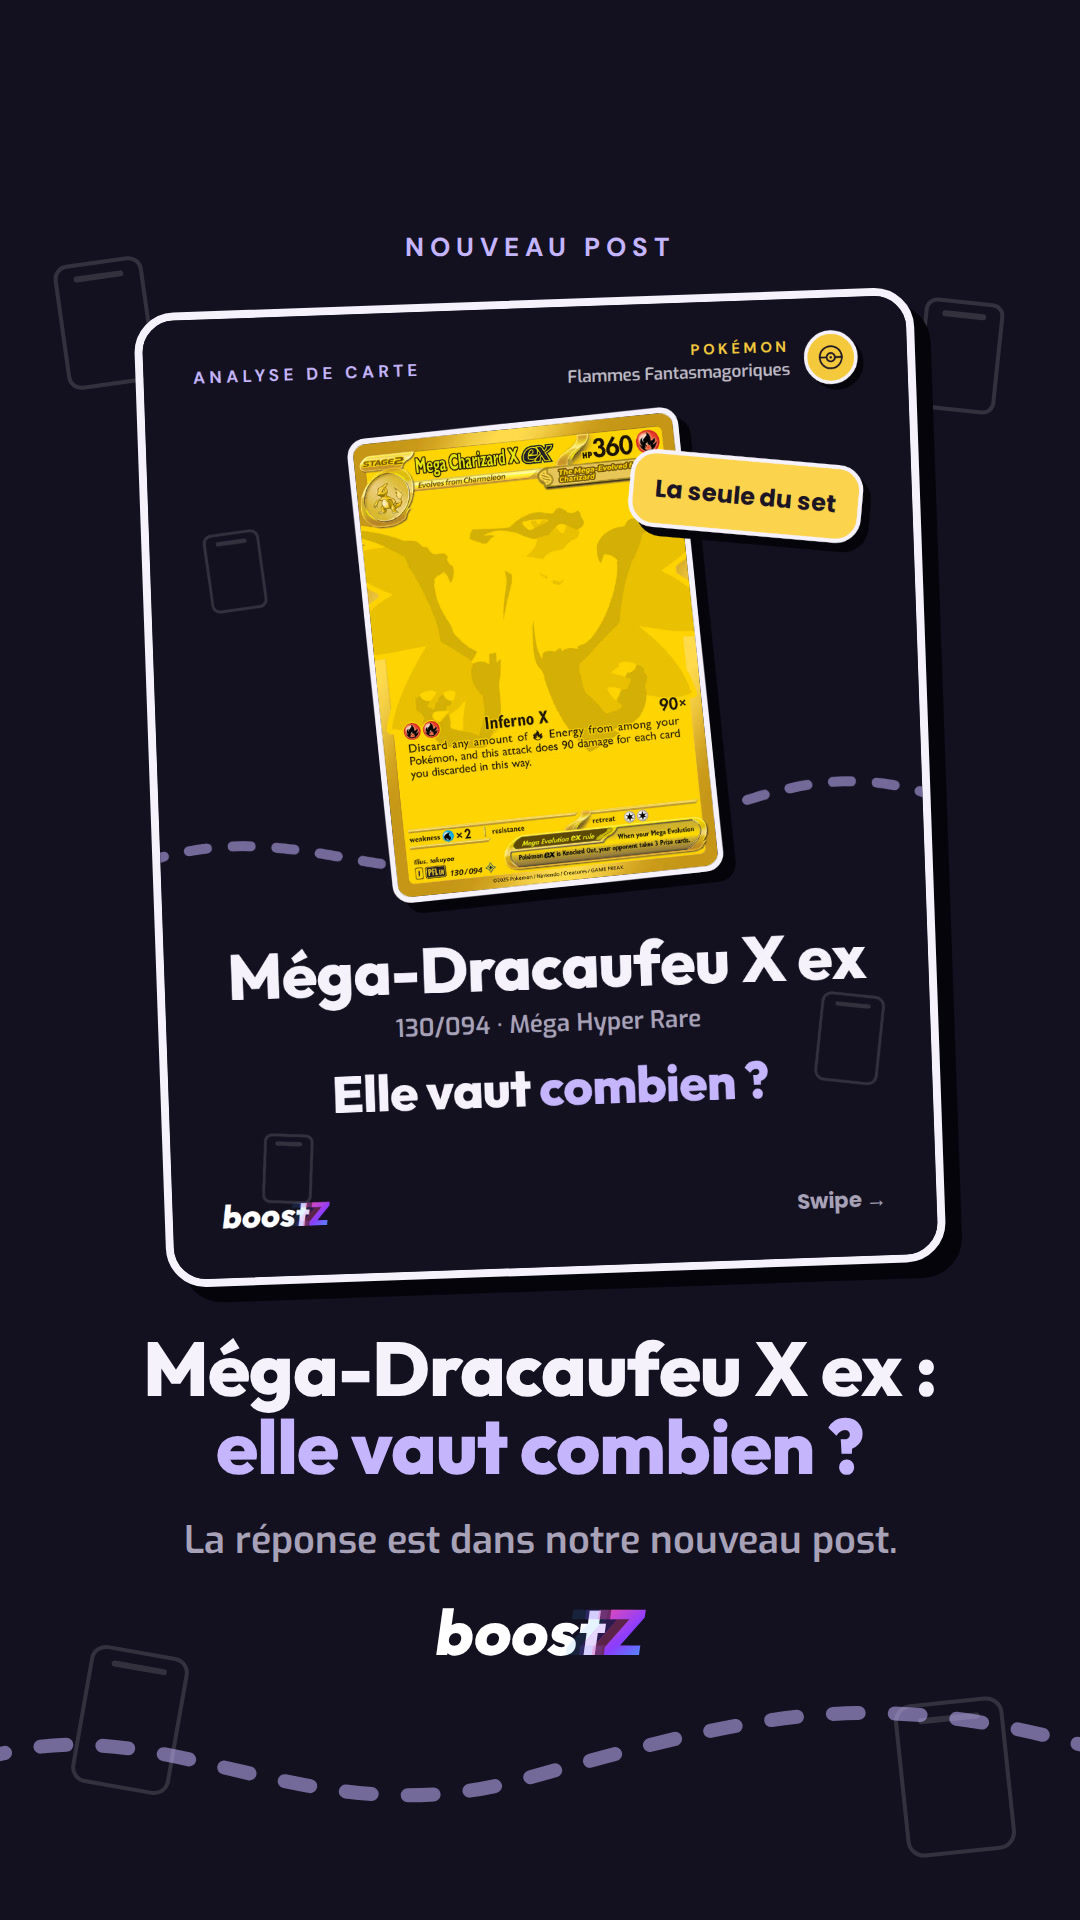
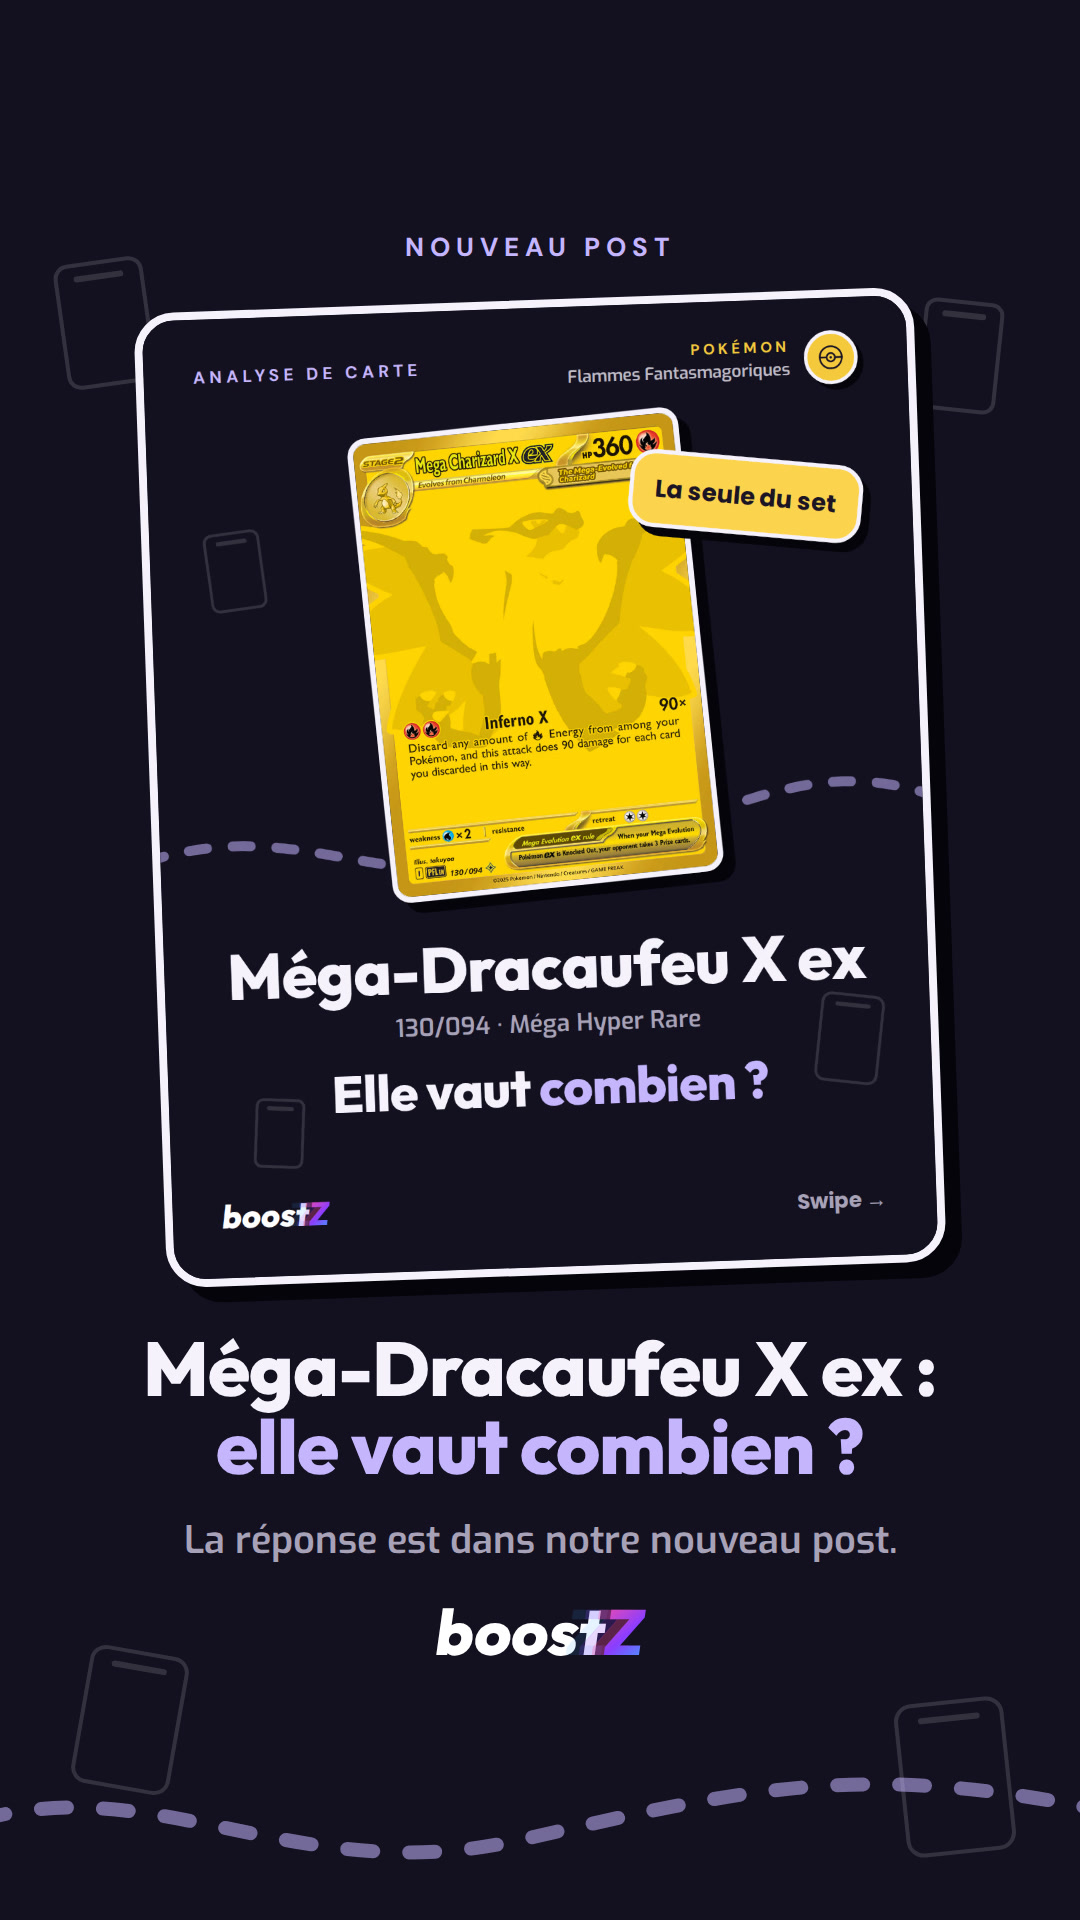
Keep the decorations of the Charizard post off its text
The user saw a sentence hidden by a decoration. The ghost card outlines
crossed the source line on slide 2, touched the wordmark on the cover and
sat on "Ton compagnon TCG…" on slide 5; they move into empty space. The
story's dashed path also goes lower, well clear of the wordmark, and the
story is re-rendered with the new cover.

Claude-Session: https://claude.ai/code/session_01QjWSbS3LhF5SXuh7u1ZYwM

diff --git a/gabarits/analyse-de-carte.html b/gabarits/analyse-de-carte.html
@@ -46,7 +46,7 @@ const SRC_VERDICT = `${TIMES} × : ≈ 8 750 € de boosters ÷ ${euro(CM.avg30)
 const POSTS = [];
 
 // 1 - Cover: the card stuck on, its name, the question.
-POSTS.push(['a1-couverture', `${ghosts([[80, 300, 80, -6], [920, 980, 90, 8], [130, 1150, 70, 4]])}${track(0)}${head('ANALYSE DE CARTE')}
+POSTS.push(['a1-couverture', `${ghosts([[80, 300, 80, -6], [920, 980, 90, 8], [120, 1100, 70, 4]])}${track(0)}${head('ANALYSE DE CARTE')}
   ${card(305, 160, 470, -4)}
   ${st(680, 220, 330, 110, `<div class="ui" style="display:flex;align-items:center;justify-content:center;height:100%;font-size:34px;color:${DARK}">La seule du set</div>`, { fill: SUN, r: 7, z: 3 })}
   <div class="abs h" style="left:0;top:880px;width:1080px;text-align:center;font-size:90px">Méga-Dracaufeu X ex</div>
@@ -56,7 +56,7 @@ POSTS.push(['a1-couverture', `${ghosts([[80, 300, 80, -6], [920, 980, 90, 8], [1
   <div class="abs ui mut" style="right:70px;top:1248px;font-size:30px">Swipe →</div>`]);
 
 // 2 - The cote: one big price, three smaller ones, then the graded range.
-POSTS.push(['a2-la-cote', `${ghosts([[900, 1040, 80, 6], [60, 1180, 70, -4]])}${track(1)}${head('LA COTE')}
+POSTS.push(['a2-la-cote', `${ghosts([[900, 1040, 80, 6]])}${track(1)}${head('LA COTE')}
   ${card(70, 175, 300, -5)}
   ${st(420, 180, 590, 300, `<div style="padding:34px 40px"><div class="lab mut" style="font-size:22px">PRIX MOYEN · 30 JOURS</div><div class="h" style="font-size:118px;margin-top:8px;white-space:nowrap">${euro(CM.avg30)}</div></div>`, { r: 2, z: 3 })}
   ${[['Plus bas', CM.low, PINK, -3], ['Sur 7 jours', CM.avg7, '#F5F2FB', 2], ['Tendance', CM.trend, DONE, -2]].map(([k, v, c, r], i) => st(70 + i * 318, 640, 290, 190, `<div style="padding:26px 28px"><div class="ui mut" style="font-size:28px;font-weight:600">${k}</div><div class="h" style="font-size:54px;margin-top:10px;white-space:nowrap;color:${c}">${euro(v)}</div></div>`, { r, z: 3 })).join('')}
@@ -83,7 +83,7 @@ POSTS.push(['a4-le-verdict', `${ghosts([[80, 520, 80, -6], [920, 1100, 80, 6]])}
   <div class="src">${SRC_VERDICT}</div>`]);
 
 // 5 - Follow it on Boostz.
-POSTS.push(['a5-suis-sa-cote', `${ghosts([[90, 300, 80, -6], [900, 360, 90, 8], [110, 1120, 70, 4], [920, 1080, 80, -6]])}${track(4)}
+POSTS.push(['a5-suis-sa-cote', `${ghosts([[90, 300, 80, -6], [900, 360, 90, 8], [100, 1215, 70, 4], [910, 1215, 80, -6]])}${track(4)}
   <div class="abs h" style="left:0;top:170px;width:1080px;text-align:center;font-size:104px">Suis sa cote<br><span class="acc">sur Boostz.</span></div>
   ${card(380, 450, 320, -3)}
   <div class="abs" style="left:0;top:1000px;width:1080px;display:flex;justify-content:center">${wordmark(100)}</div>

diff --git a/gabarits/story-post.html b/gabarits/story-post.html
@@ -24,7 +24,7 @@ const STORIES = [
   ['2026-10-22-dracaufeu', '../images/2026-10-22-analyse-mega-dracaufeu-x-stickers/1-couverture.jpg', 'Méga-Dracaufeu X ex :', 'elle vaut combien ?', 'La réponse est dans notre nouveau post.']
 ];
 document.body.innerHTML = STORIES.map(([id, img, a, b, sub]) => `<div class="p" id="${id}">${ghosts}
-  <svg class="abs" width="1080" height="1920" style="left:0;top:0"><path d="M-20 1760 C160 1700 300 1840 520 1780 S860 1680 1100 1750" fill="none" stroke="rgba(196,181,253,.55)" stroke-width="14" stroke-dasharray="26 36" stroke-linecap="round"/></svg>
+  <svg class="abs" width="1080" height="1920" style="left:0;top:0"><path d="M-20 1820 C160 1770 300 1890 520 1840 S860 1760 1100 1810" fill="none" stroke="rgba(196,181,253,.55)" stroke-width="14" stroke-dasharray="26 36" stroke-linecap="round"/></svg>
   <div class="abs lab" style="left:0;top:230px;width:1080px;text-align:center;font-size:26px;color:#C4B5FD">NOUVEAU POST</div>
   <div class="abs" style="left:150px;top:300px;width:780px;height:975px;border:8px solid #F5F2FB;border-radius:40px;overflow:hidden;box-shadow:16px 16px 0 #05040A;transform:rotate(-2deg)"><img src="${img}" style="width:100%;height:100%;display:block"></div>
   <div class="abs h" style="left:0;top:1330px;width:1080px;text-align:center;font-size:76px">${a}<br><span style="color:#C4B5FD">${b}</span></div>
